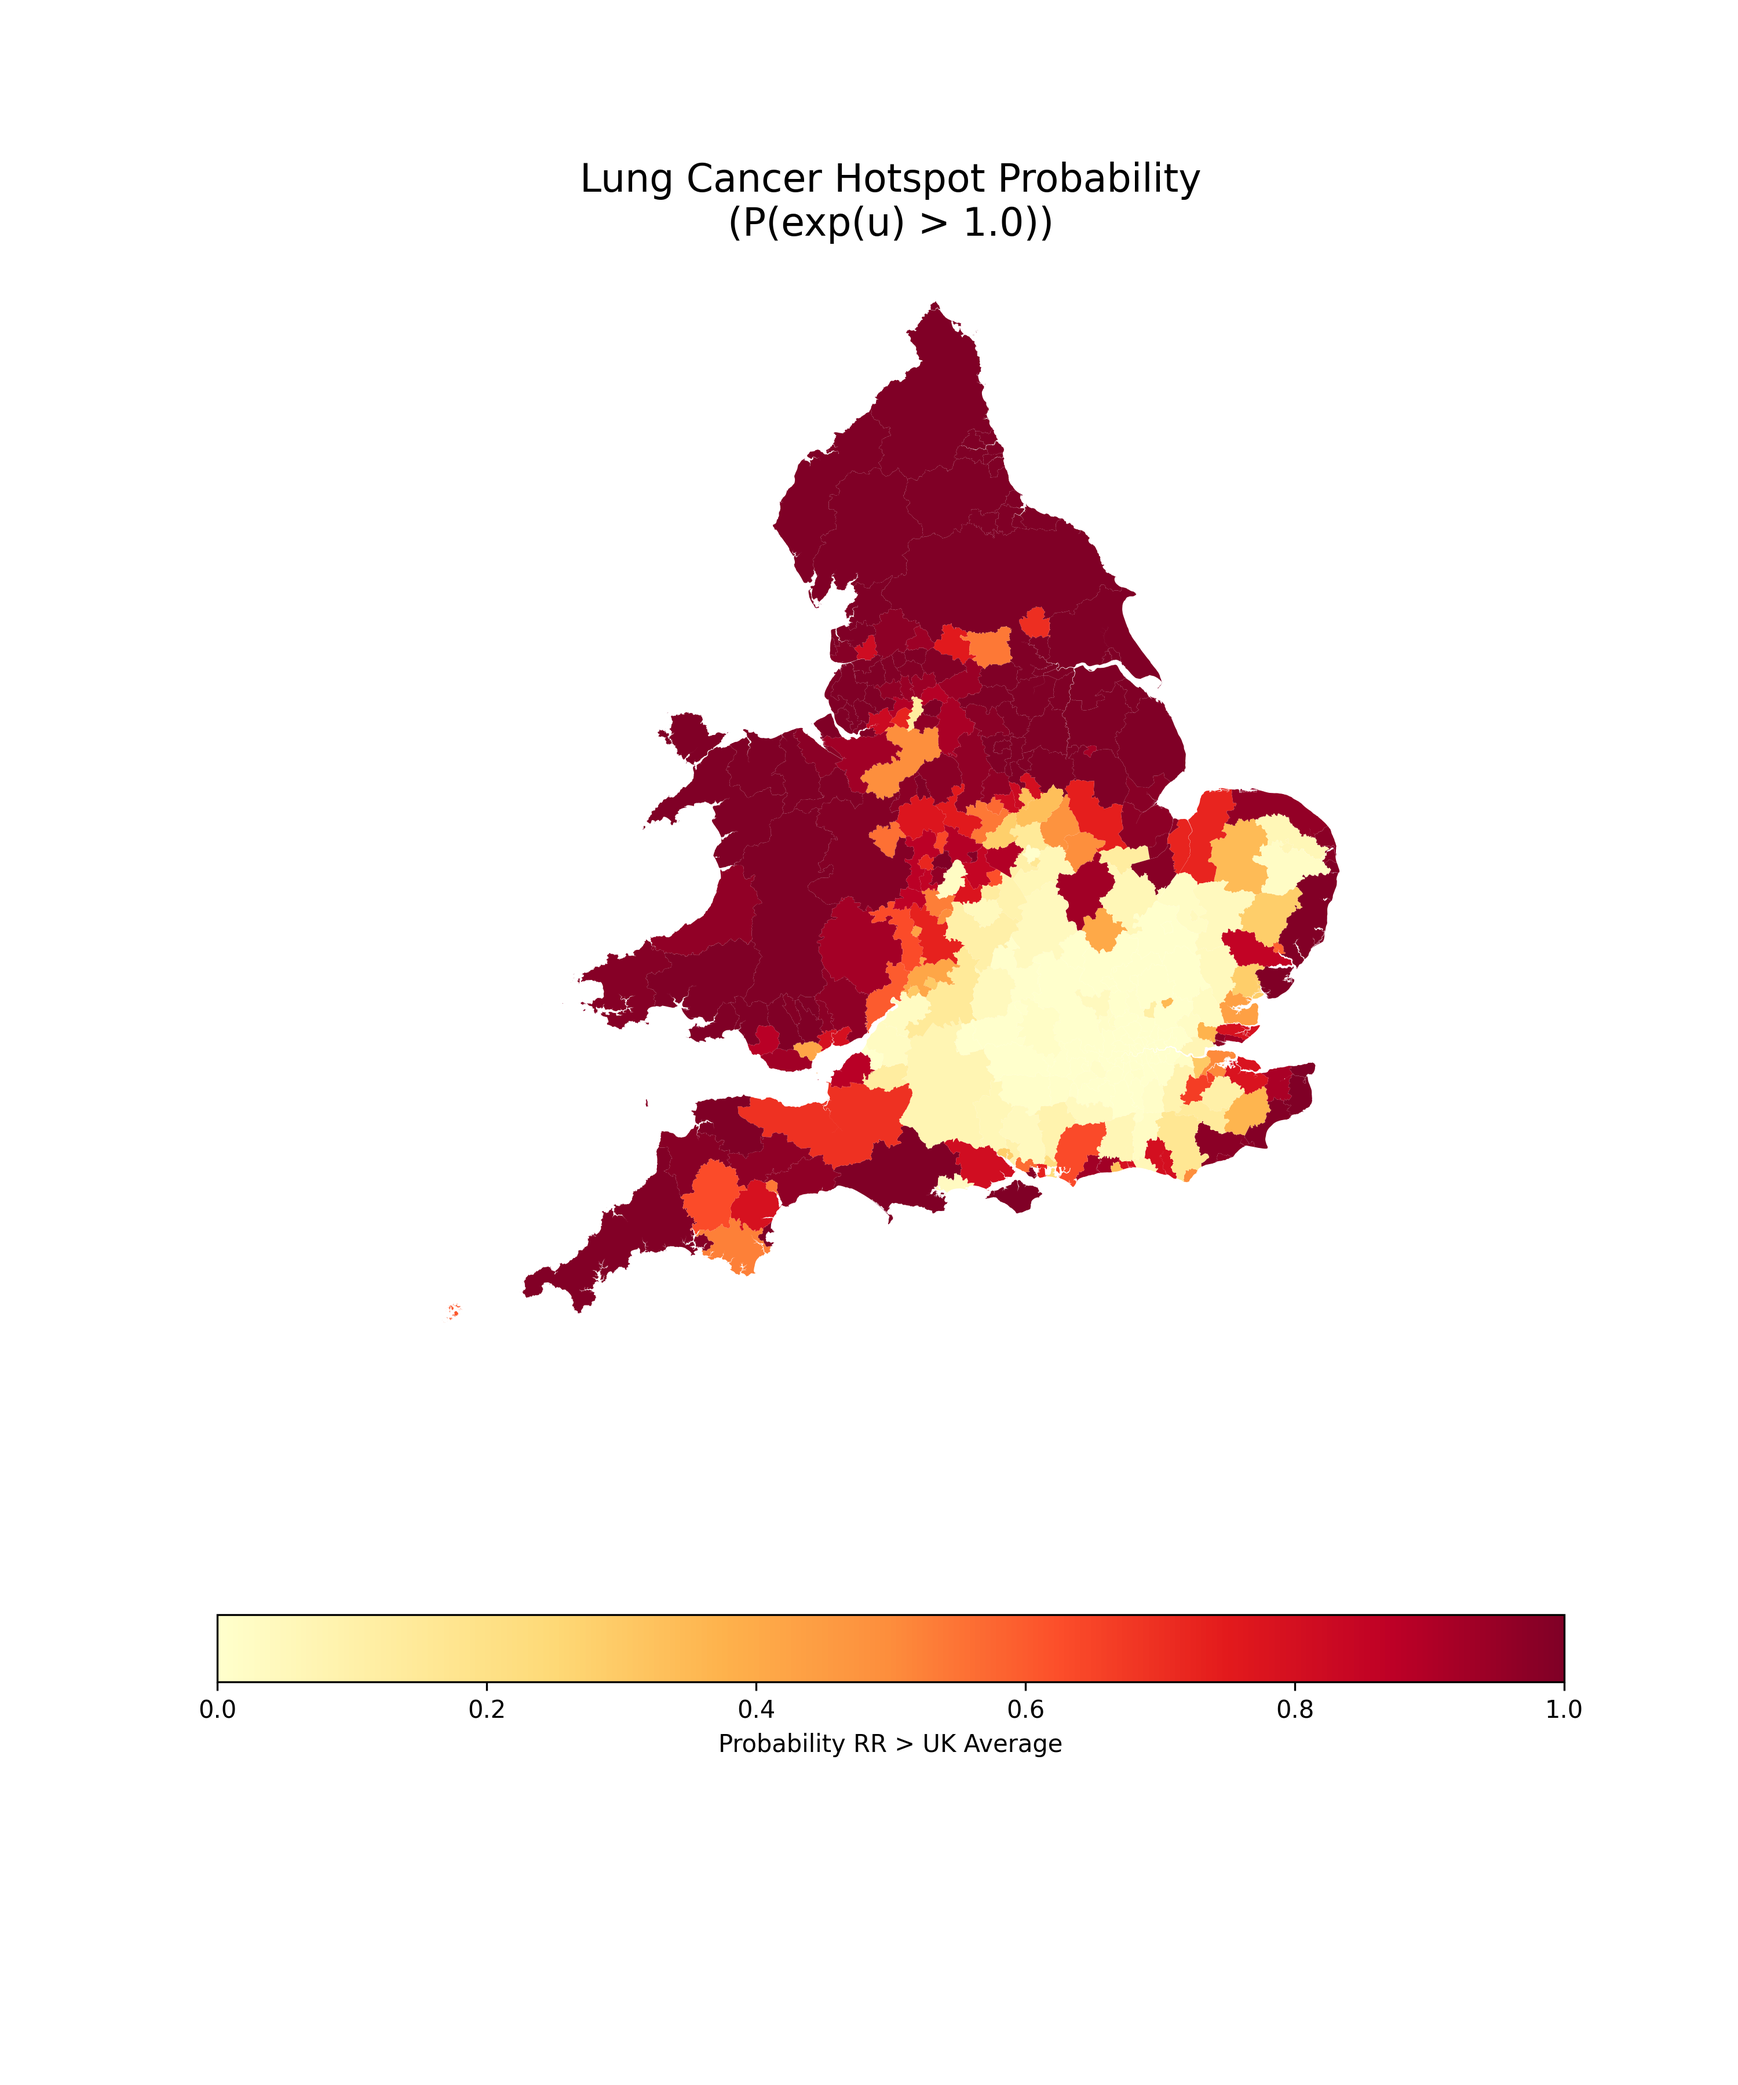
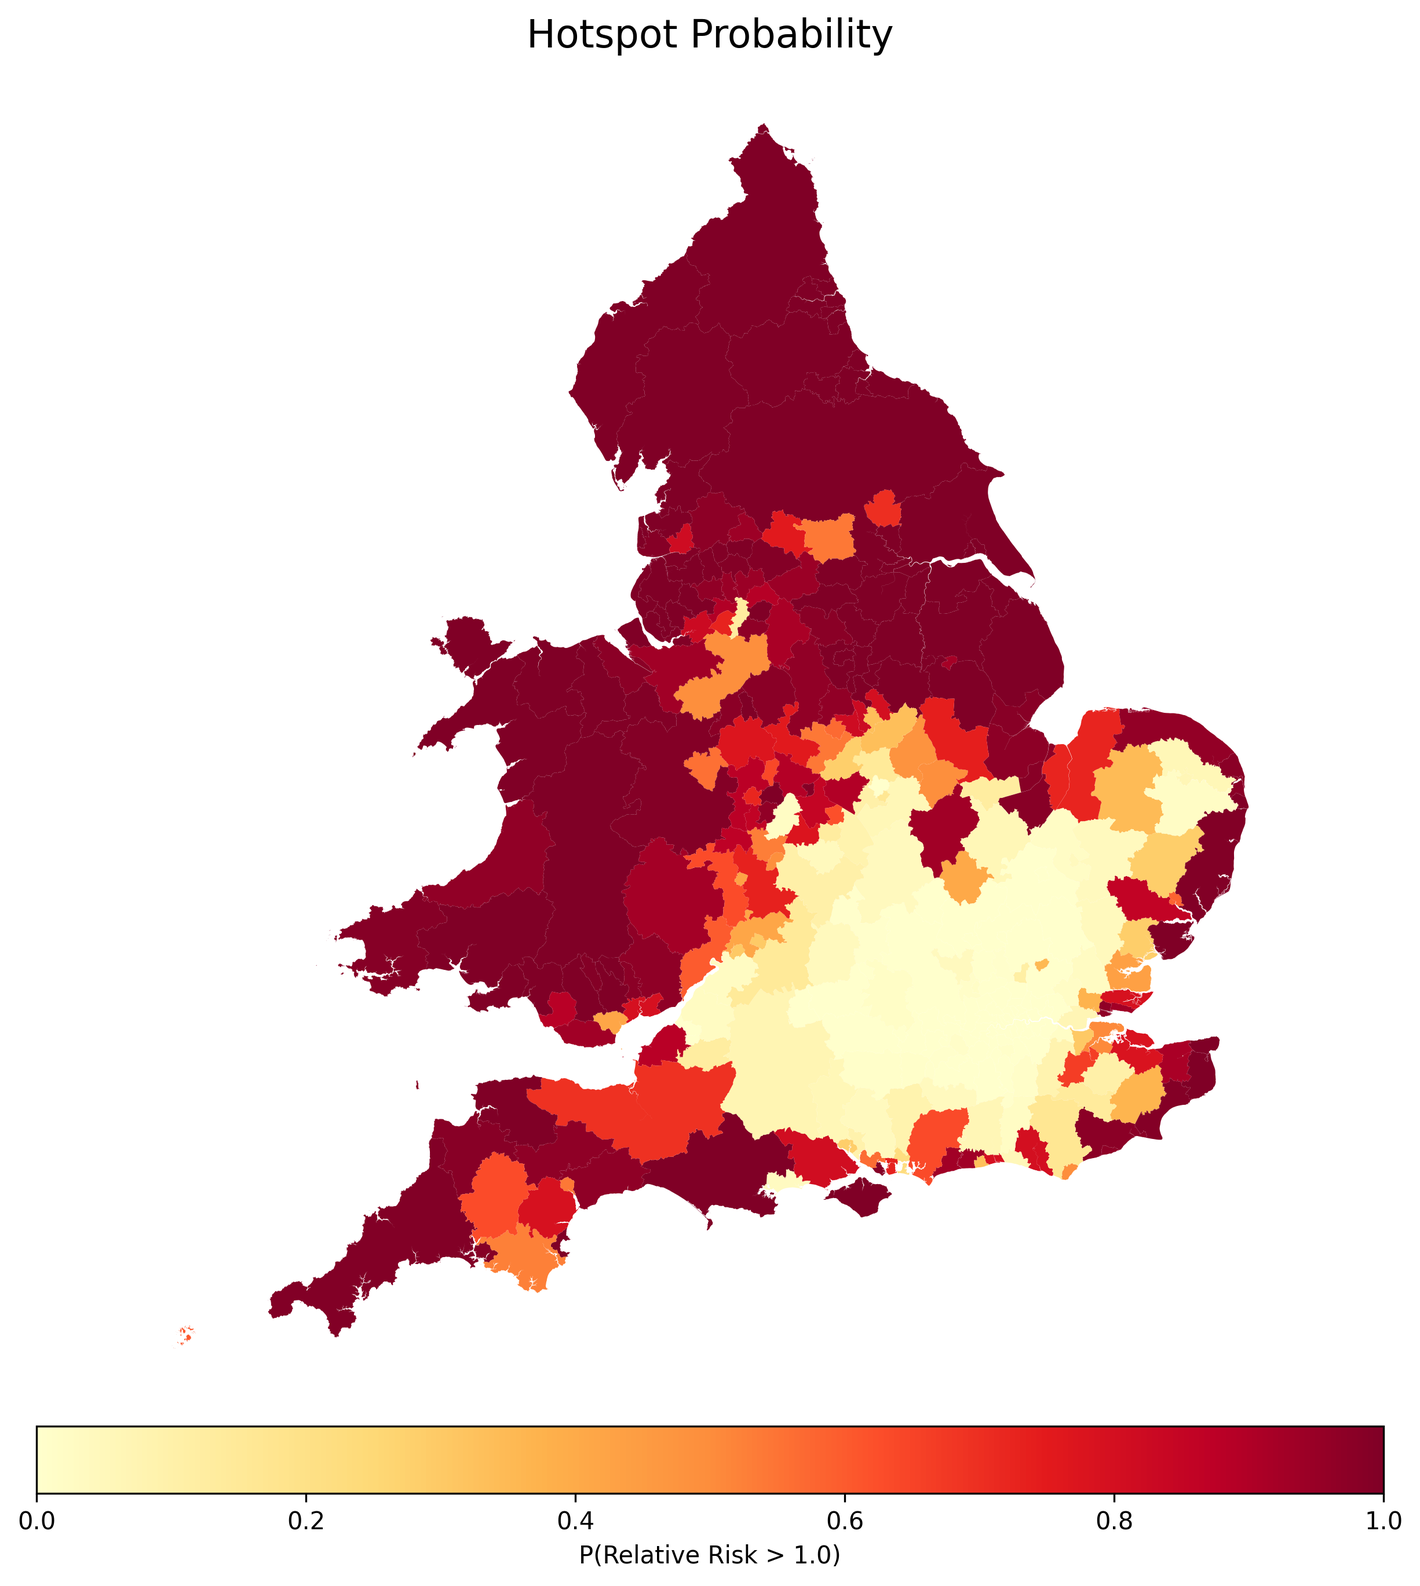
Finished CAR Visualizations V3

Changed region(s): [[0.124, 0.0621, 0.8992, 0.8379], [0.0, 0.9, 0.9922, 0.9931], [0.3721, 0.0, 0.6202, 0.031]]

diff --git a/scripts/car_v3_viz.py b/scripts/car_v3_viz.py
@@ -9,6 +9,9 @@ import geopandas as gpd
 from shapely import wkb
 from pathlib import Path
 
+# --- GLOBAL STYLING ---
+plt.rcParams.update({'font.family': 'sans-serif', 'font.size': 10})
+
 # --- PATH CONFIGURATION ---
 INPUT_NC = "outputs/idata_car_population_v3.nc"
 AREAS_PARQUET = "data/processed/areas.parquet"
@@ -16,56 +19,63 @@ FIGURES_DIR = Path("/Users/alydiaowens/Projects/uk-lung-cancer-spatial/reports/f
 FIGURES_DIR.mkdir(parents=True, exist_ok=True)
 
 def main():
+    print("--- Starting Standardized Visualization Process ---")
+    
+    # 1. Load Data
     idata = az.from_netcdf(INPUT_NC)
     df = pd.read_parquet(AREAS_PARQUET)
     
-    # Decode WKB Geometry
+    # 2. Decode Geometry
     df['geometry'] = df['geometry'].apply(lambda x: wkb.loads(x) if isinstance(x, bytes) else x)
     gdf = gpd.GeoDataFrame(df, geometry='geometry')
 
-    # --- THE CORRECTED CALCULATION ---
-    # Derive Relative Risk (RR) from the spatial effect u, ignoring the global b0
+    # 3. Corrected Relative Risk Calculation (Centered at 1.0)
     u_samples = idata.posterior["car_effect"].values
     rr_corrected = np.exp(u_samples)
     
-    # Assign values to GeoDataFrame
     gdf["mean_rr"] = rr_corrected.mean(axis=(0, 1))
     gdf["exceedance_prob"] = (rr_corrected > 1.0).mean(axis=(0, 1))
     gdf["rr_sd"] = rr_corrected.std(axis=(0, 1))
-    
-    print(f"Stats -> RR Mean: {gdf['mean_rr'].mean():.4f} | Exceedance Max: {gdf['exceedance_prob'].max():.2f}")
 
-    # --- MAP 1: MEAN RELATIVE RISK (Coolwarm, centered at 1.0) ---
-    fig, ax = plt.subplots(figsize=(10, 12))
+    # --- PLOTTING FUNCTION ---
+    def save_styled_map(column, cmap, title, label, filename, norm=None, vmin=None, vmax=None):
+        fig, ax = plt.subplots(figsize=(8, 10))
+        gdf.plot(
+            column=column, 
+            cmap=cmap, 
+            norm=norm, 
+            vmin=vmin, 
+            vmax=vmax, 
+            legend=True, 
+            ax=ax,
+            legend_kwds={'label': label, 'orientation': "horizontal", 'pad': 0.02, 'shrink': 0.8}
+        )
+        ax.set_title(title, fontsize=14, fontweight='bold', pad=15)
+        ax.axis("off")
+        
+        save_path = FIGURES_DIR / filename
+        plt.savefig(save_path, dpi=300, bbox_inches='tight')
+        plt.close()
+        print(f"Generated: {filename}")
+
+    # --- EXECUTION ---
+
+    # 1. Relative Risk (Magnitude)
+    # Uses TwoSlopeNorm to ensure 1.0 is exactly the middle/white color
     vmin, vmax = gdf["mean_rr"].min(), gdf["mean_rr"].max()
-    norm = mcolors.TwoSlopeNorm(vmin=vmin, vcenter=1.0, vmax=vmax) if vmin < 1.0 < vmax else None
-    
-    gdf.plot(column="mean_rr", cmap="coolwarm", norm=norm, legend=True, ax=ax,
-             legend_kwds={'label': "Relative Risk (1.0 = UK Average)", 'orientation': "horizontal", 'pad': 0.01})
-    ax.set_title("Estimated Relative Risk [exp(u)]", fontsize=16)
-    ax.axis("off")
-    plt.savefig(FIGURES_DIR / "v3_map_mean_rr.png", dpi=300, bbox_inches='tight')
-    plt.close()
+    norm = mcolors.TwoSlopeNorm(vmin=vmin, vcenter=1.0, vmax=vmax)
+    save_styled_map("mean_rr", "coolwarm", "Estimated Relative Risk", 
+                    "Relative Risk (1.0 = National Average)", "v3_rr_final.png", norm=norm)
 
-    # --- MAP 2: EXCEEDANCE PROBABILITY (YlOrRd, 0 to 1) ---
-    fig, ax = plt.subplots(figsize=(10, 12))
-    gdf.plot(column="exceedance_prob", cmap="YlOrRd", vmin=0, vmax=1, legend=True, ax=ax,
-             legend_kwds={'label': "P(Relative Risk > 1.0)", 'orientation': "horizontal", 'pad': 0.01})
-    ax.set_title("Hotspot Probability", fontsize=16)
-    ax.axis("off")
-    plt.savefig(FIGURES_DIR / "v3_map_exceedance.png", dpi=300, bbox_inches='tight')
-    plt.close()
+    # 2. Exceedance Probability (Confidence)
+    save_styled_map("exceedance_prob", "YlOrRd", "Hotspot Exceedance Probability", 
+                    "P(Relative Risk > 1.0)", "v3_exceedance_final.png", vmin=0, vmax=1)
 
-    # --- MAP 3: UNCERTAINTY (Purples) ---
-    fig, ax = plt.subplots(figsize=(10, 12))
-    gdf.plot(column="rr_sd", cmap="Purples", legend=True, ax=ax,
-             legend_kwds={'label': "Posterior SD of Relative Risk", 'orientation': "horizontal", 'pad': 0.01})
-    ax.set_title("Model Uncertainty (Standard Deviation)", fontsize=16)
-    ax.axis("off")
-    plt.savefig(FIGURES_DIR / "v3_map_uncertainty.png", dpi=300, bbox_inches='tight')
-    plt.close()
+    # 3. Posterior Standard Deviation (Precision)
+    save_styled_map("rr_sd", "Purples", "Model Uncertainty", 
+                    "Posterior Standard Deviation", "v3_uncertainty_final.png")
 
-    print(f"All 3 maps successfully saved to: {FIGURES_DIR}")
+    print(f"\nAll final standardized maps are in: {FIGURES_DIR}")
 
 if __name__ == "__main__":
     main()

diff --git a/scripts/car_v3_viz_london.py b/scripts/car_v3_viz_london.py
@@ -1,0 +1,83 @@
+import matplotlib
+matplotlib.use('Agg') 
+import matplotlib.pyplot as plt
+import matplotlib.colors as mcolors 
+import arviz as az
+import numpy as np
+import pandas as pd
+import geopandas as gpd
+from shapely import wkb
+from pathlib import Path
+
+# --- PATH CONFIGURATION ---
+INPUT_NC = "outputs/idata_car_population_v3.nc"
+AREAS_PARQUET = "data/processed/areas.parquet"
+FIGURES_DIR = Path("/Users/alydiaowens/Projects/uk-lung-cancer-spatial/reports/figures/london_zoom")
+FIGURES_DIR.mkdir(parents=True, exist_ok=True)
+
+def main():
+    idata = az.from_netcdf(INPUT_NC)
+    df = pd.read_parquet(AREAS_PARQUET)
+    
+    # Decode Geometry
+    df['geometry'] = df['geometry'].apply(lambda x: wkb.loads(x) if isinstance(x, bytes) else x)
+    gdf = gpd.GeoDataFrame(df, geometry='geometry')
+
+    # --- CALCULATION (Relative Risk Correction) ---
+    u_samples = idata.posterior["car_effect"].values
+    rr_corrected = np.exp(u_samples)
+    
+    gdf["mean_rr"] = rr_corrected.mean(axis=(0, 1))
+    gdf["exceedance_prob"] = (rr_corrected > 1.0).mean(axis=(0, 1))
+    gdf["rr_sd"] = rr_corrected.std(axis=(0, 1))
+
+    # Identify London Boroughs (Codes starting with E09)
+    # We use this to set the map limits for the zoom-in
+    london_gdf = gdf[gdf['LAD_code'].str.startswith('E09', na=False)]
+    minx, miny, maxx, maxy = london_gdf.total_bounds
+    
+    # Add a small buffer (5-10km) so the edges aren't cut off
+    buffer = 5000 
+    london_xlim = (minx - buffer, maxx + buffer)
+    london_ylim = (miny - buffer, maxy + buffer)
+
+    # --- PLOTTING FUNCTION ---
+    def create_plots(column, cmap, title_prefix, filename_prefix, norm=None, vmin=None, vmax=None):
+        # 1. Full UK Map
+        fig, ax = plt.subplots(figsize=(10, 12))
+        gdf.plot(column=column, cmap=cmap, norm=norm, vmin=vmin, vmax=vmax, legend=True, ax=ax,
+                 legend_kwds={'orientation': "horizontal", 'pad': 0.01})
+        ax.set_title(f"UK: {title_prefix}", fontsize=16)
+        ax.axis("off")
+        plt.savefig(FIGURES_DIR.parent / f"uk_{filename_prefix}.png", dpi=300, bbox_inches='tight')
+        plt.close()
+
+        # 2. London Zoom Map
+        fig, ax = plt.subplots(figsize=(10, 10))
+        gdf.plot(column=column, cmap=cmap, norm=norm, vmin=vmin, vmax=vmax, legend=True, ax=ax,
+                 edgecolor='black', linewidth=0.2, # Add lines to distinguish boroughs
+                 legend_kwds={'orientation': "horizontal", 'pad': 0.02})
+        
+        ax.set_xlim(london_xlim)
+        ax.set_ylim(london_ylim)
+        ax.set_title(f"London Detail: {title_prefix}", fontsize=18)
+        ax.axis("off")
+        plt.savefig(FIGURES_DIR / f"london_{filename_prefix}.png", dpi=300, bbox_inches='tight')
+        plt.close()
+
+    # --- EXECUTE MAPS ---
+    print("Generating Mean RR Maps...")
+    vmin_rr, vmax_rr = gdf["mean_rr"].min(), gdf["mean_rr"].max()
+    rr_norm = mcolors.TwoSlopeNorm(vmin=vmin_rr, vcenter=1.0, vmax=vmax_rr) if vmin_rr < 1.0 < vmax_rr else None
+    create_plots("mean_rr", "coolwarm", "Relative Risk (exp(u))", "mean_rr", norm=rr_norm)
+
+    print("Generating Exceedance Maps...")
+    create_plots("exceedance_prob", "YlOrRd", "Hotspot Probability", "exceedance", vmin=0, vmax=1)
+
+    print("Generating Uncertainty Maps...")
+    create_plots("rr_sd", "Purples", "Posterior Std Dev", "uncertainty")
+
+    print(f"Success! National maps in /figures and London crops in {FIGURES_DIR}")
+
+if __name__ == "__main__":
+    main()
